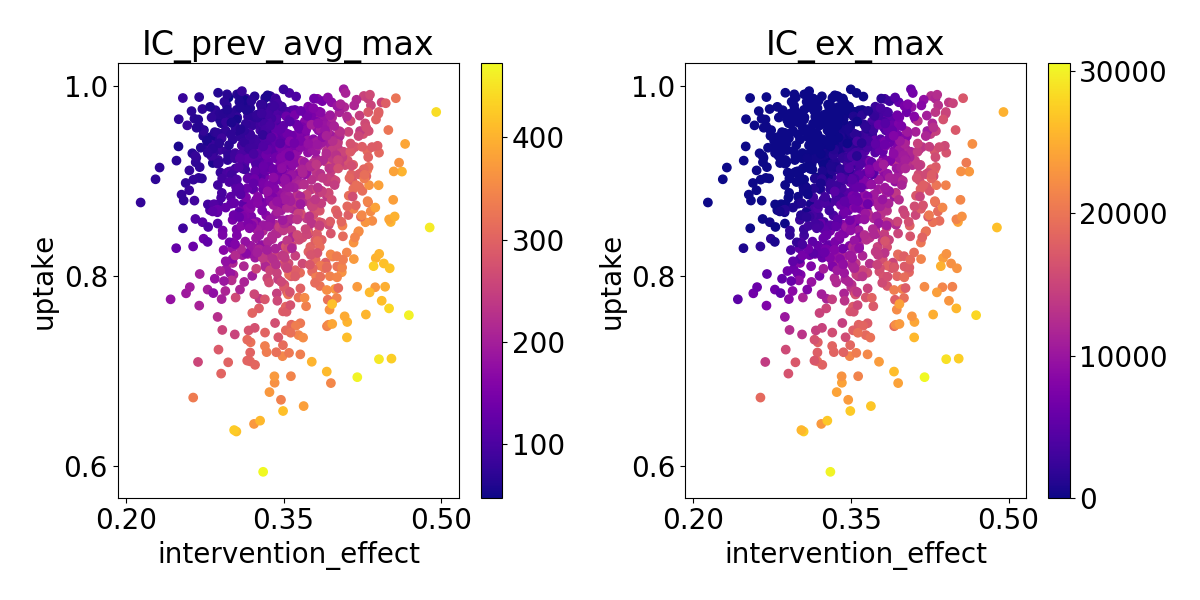
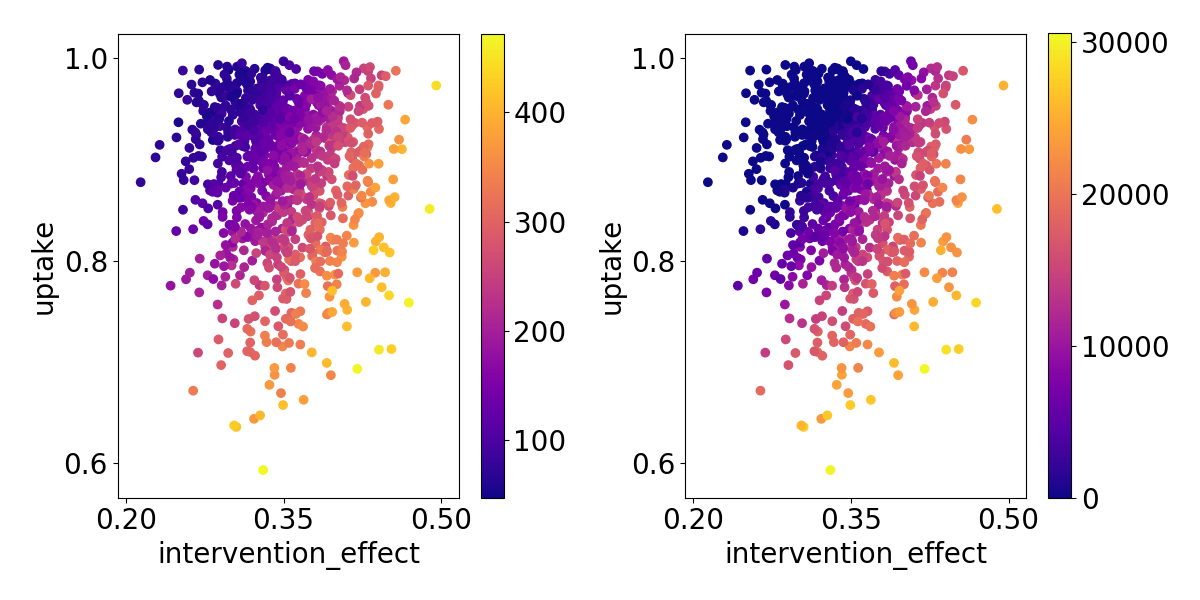
remove titles

diff --git a/EasyVVUQ/heatmap_corona.py b/EasyVVUQ/heatmap_corona.py
@@ -64,14 +64,14 @@ for run in info:
 #     print(run[1]['params'])
 
 f = plt.figure('heatmap',figsize=[12,6])
-ax_p = f.add_subplot(121, xlabel='intervention_effect', ylabel='uptake', title='IC_prev_avg_max')
+ax_p = f.add_subplot(121, xlabel='intervention_effect', ylabel='uptake')
 im_p = ax_p.scatter(x=intervention_effect, y=uptake, c=IC_prev_avg_max, cmap='plasma')
 f.colorbar(im_p, ax=ax_p)
 
 ax_p.set_xticks([0.2, 0.35, 0.5])
 ax_p.set_yticks([0.6, 0.8, 1.0])
 
-ax_e = f.add_subplot(122, xlabel='intervention_effect', ylabel='uptake', title='IC_ex_max')
+ax_e = f.add_subplot(122, xlabel='intervention_effect', ylabel='uptake')
 im_e = ax_e.scatter(x=intervention_effect, y=uptake, c=IC_ex_max, cmap='plasma')
 cbar_e = f.colorbar(im_e, ax=ax_e)
 cbar_e.set_ticks([0, 1e4, 2e4, 3e4])
